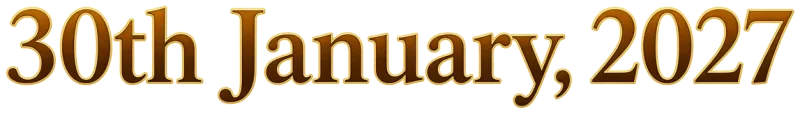
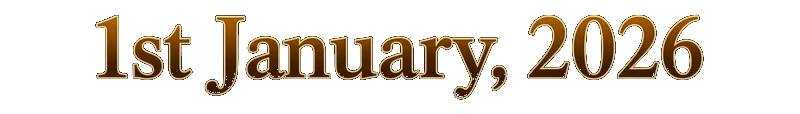
Replace Haldi date SVG with matching transparent webp artwork.

diff --git a/index.html b/index.html
@@ -172,7 +172,7 @@
         <div class="event-card event-card--art haldi__details">
           <img loading="lazy" decoding="async"
             class="haldi__detail-date"
-            src="/haldi/details/date.svg"
+            src="/haldi/details/date.webp"
             alt="1st January, 2026"
             width="800"
             height="114"
